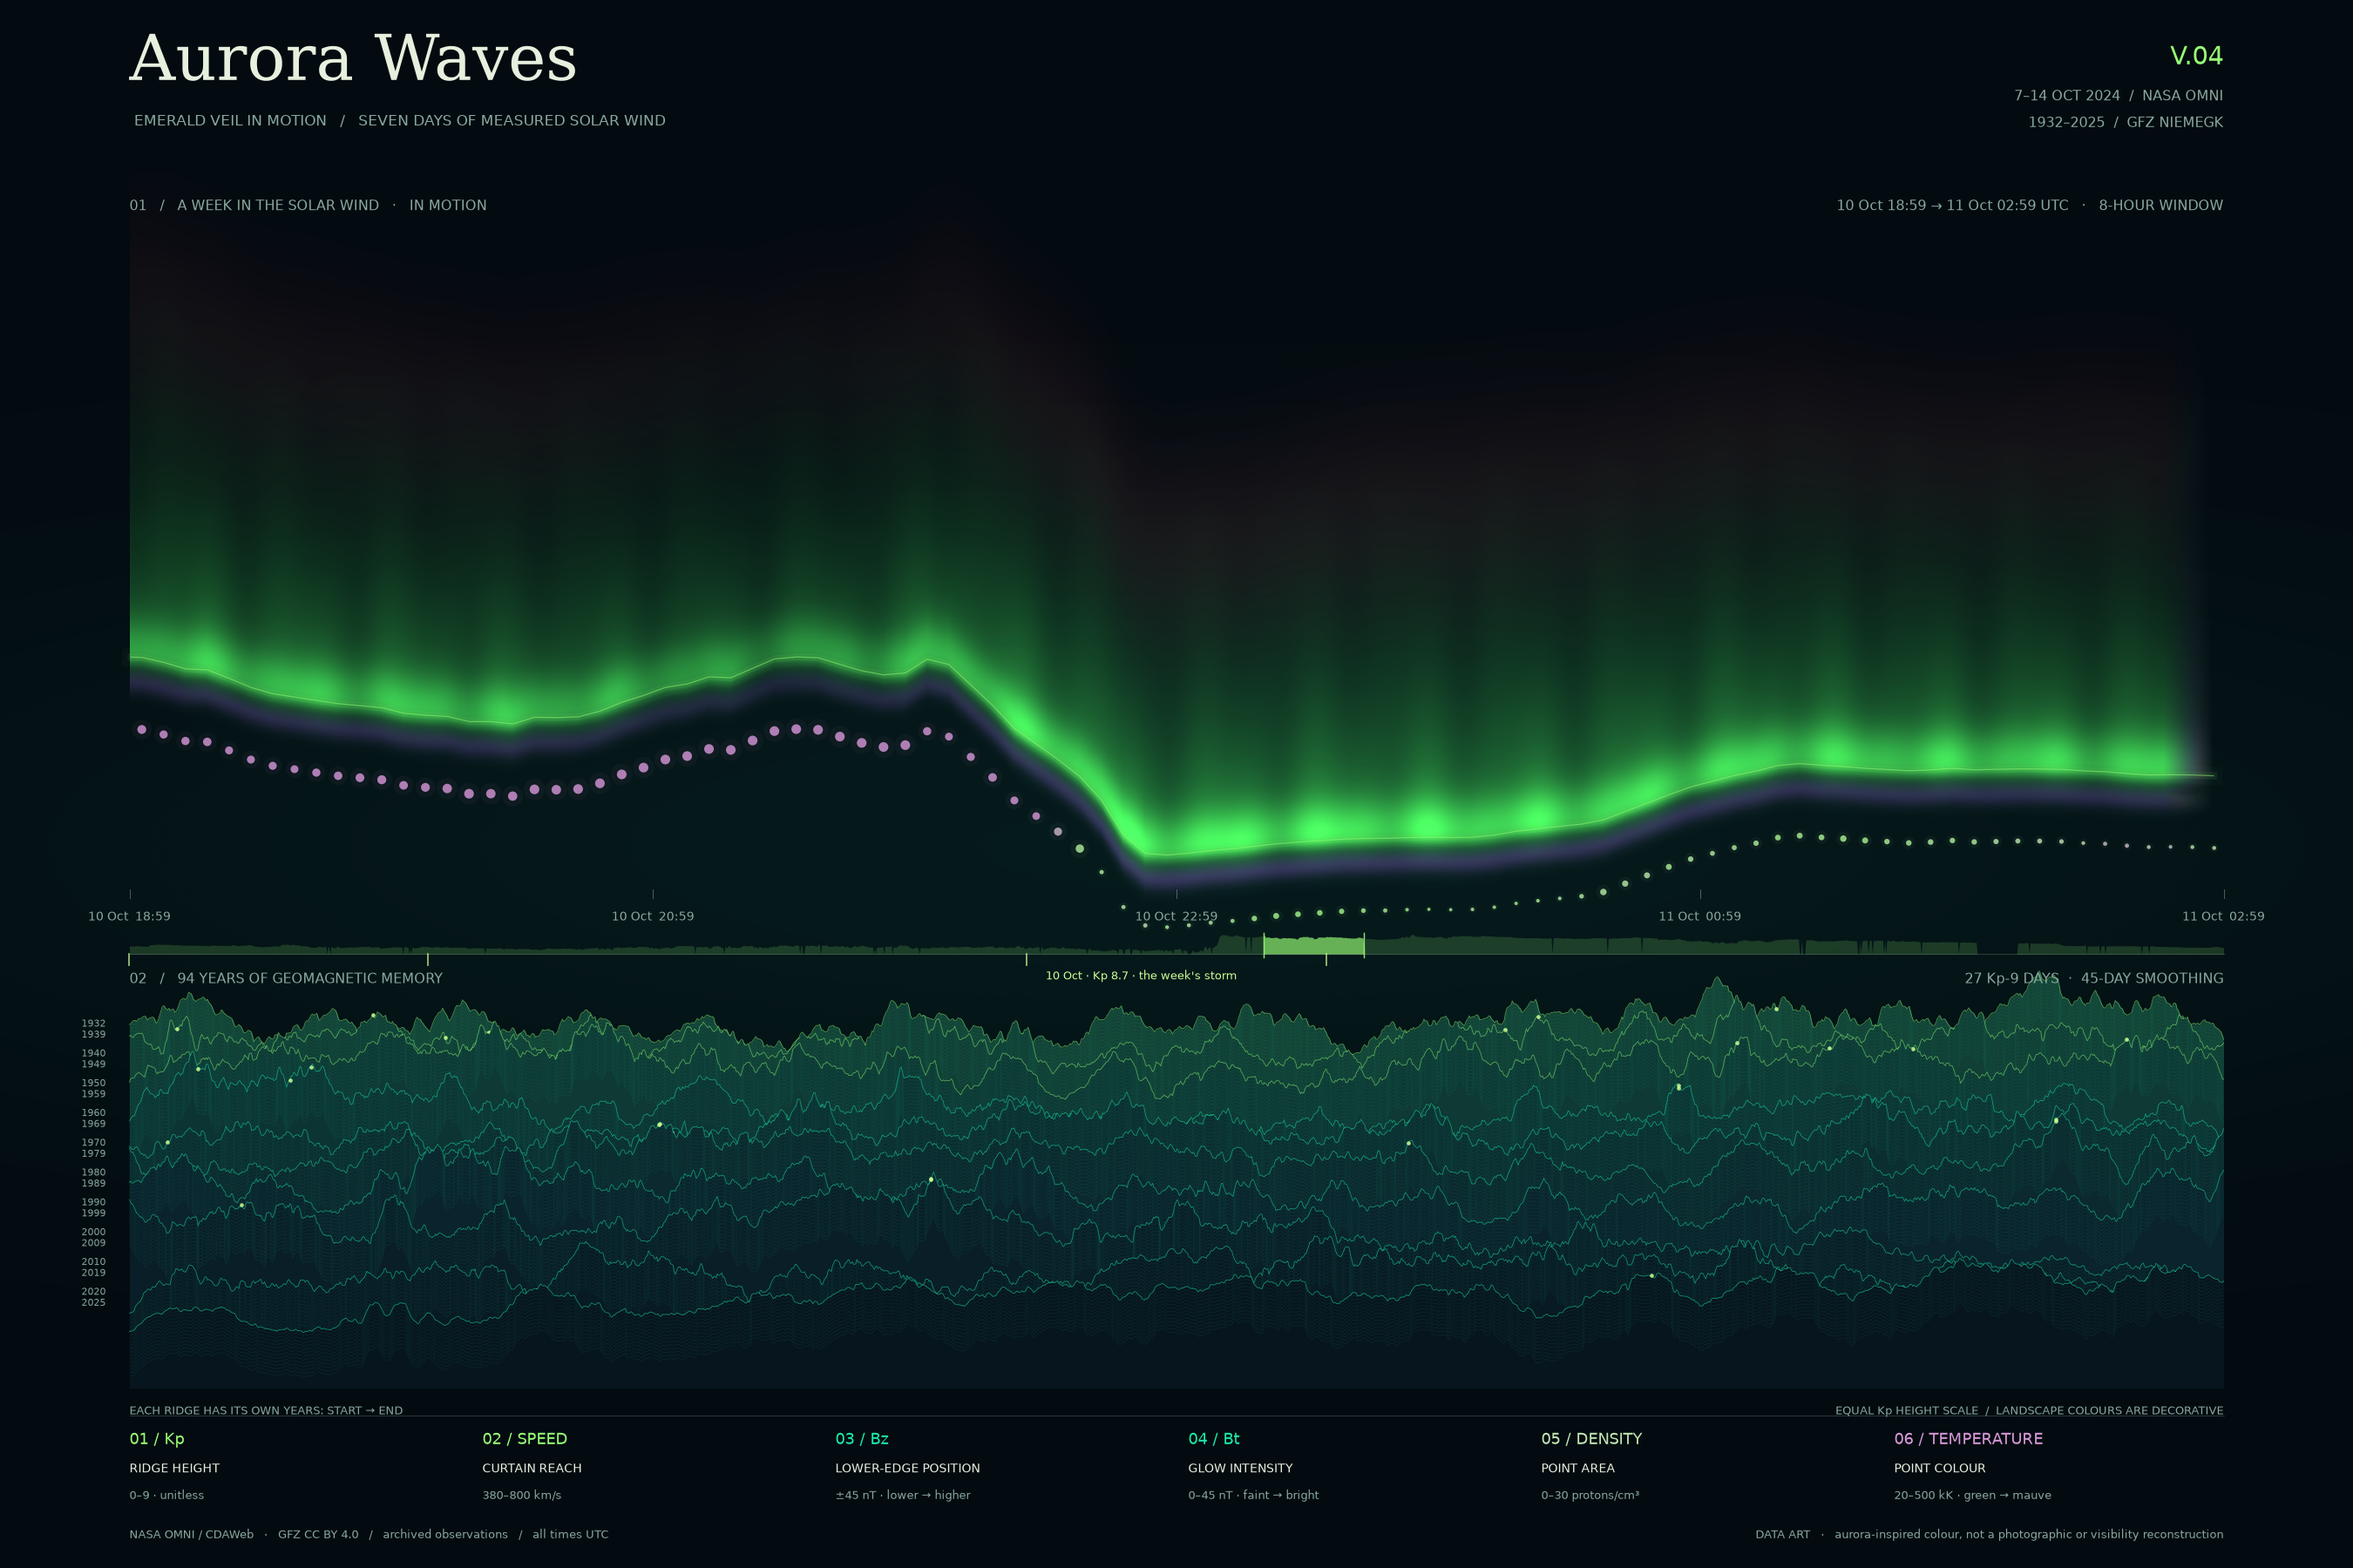
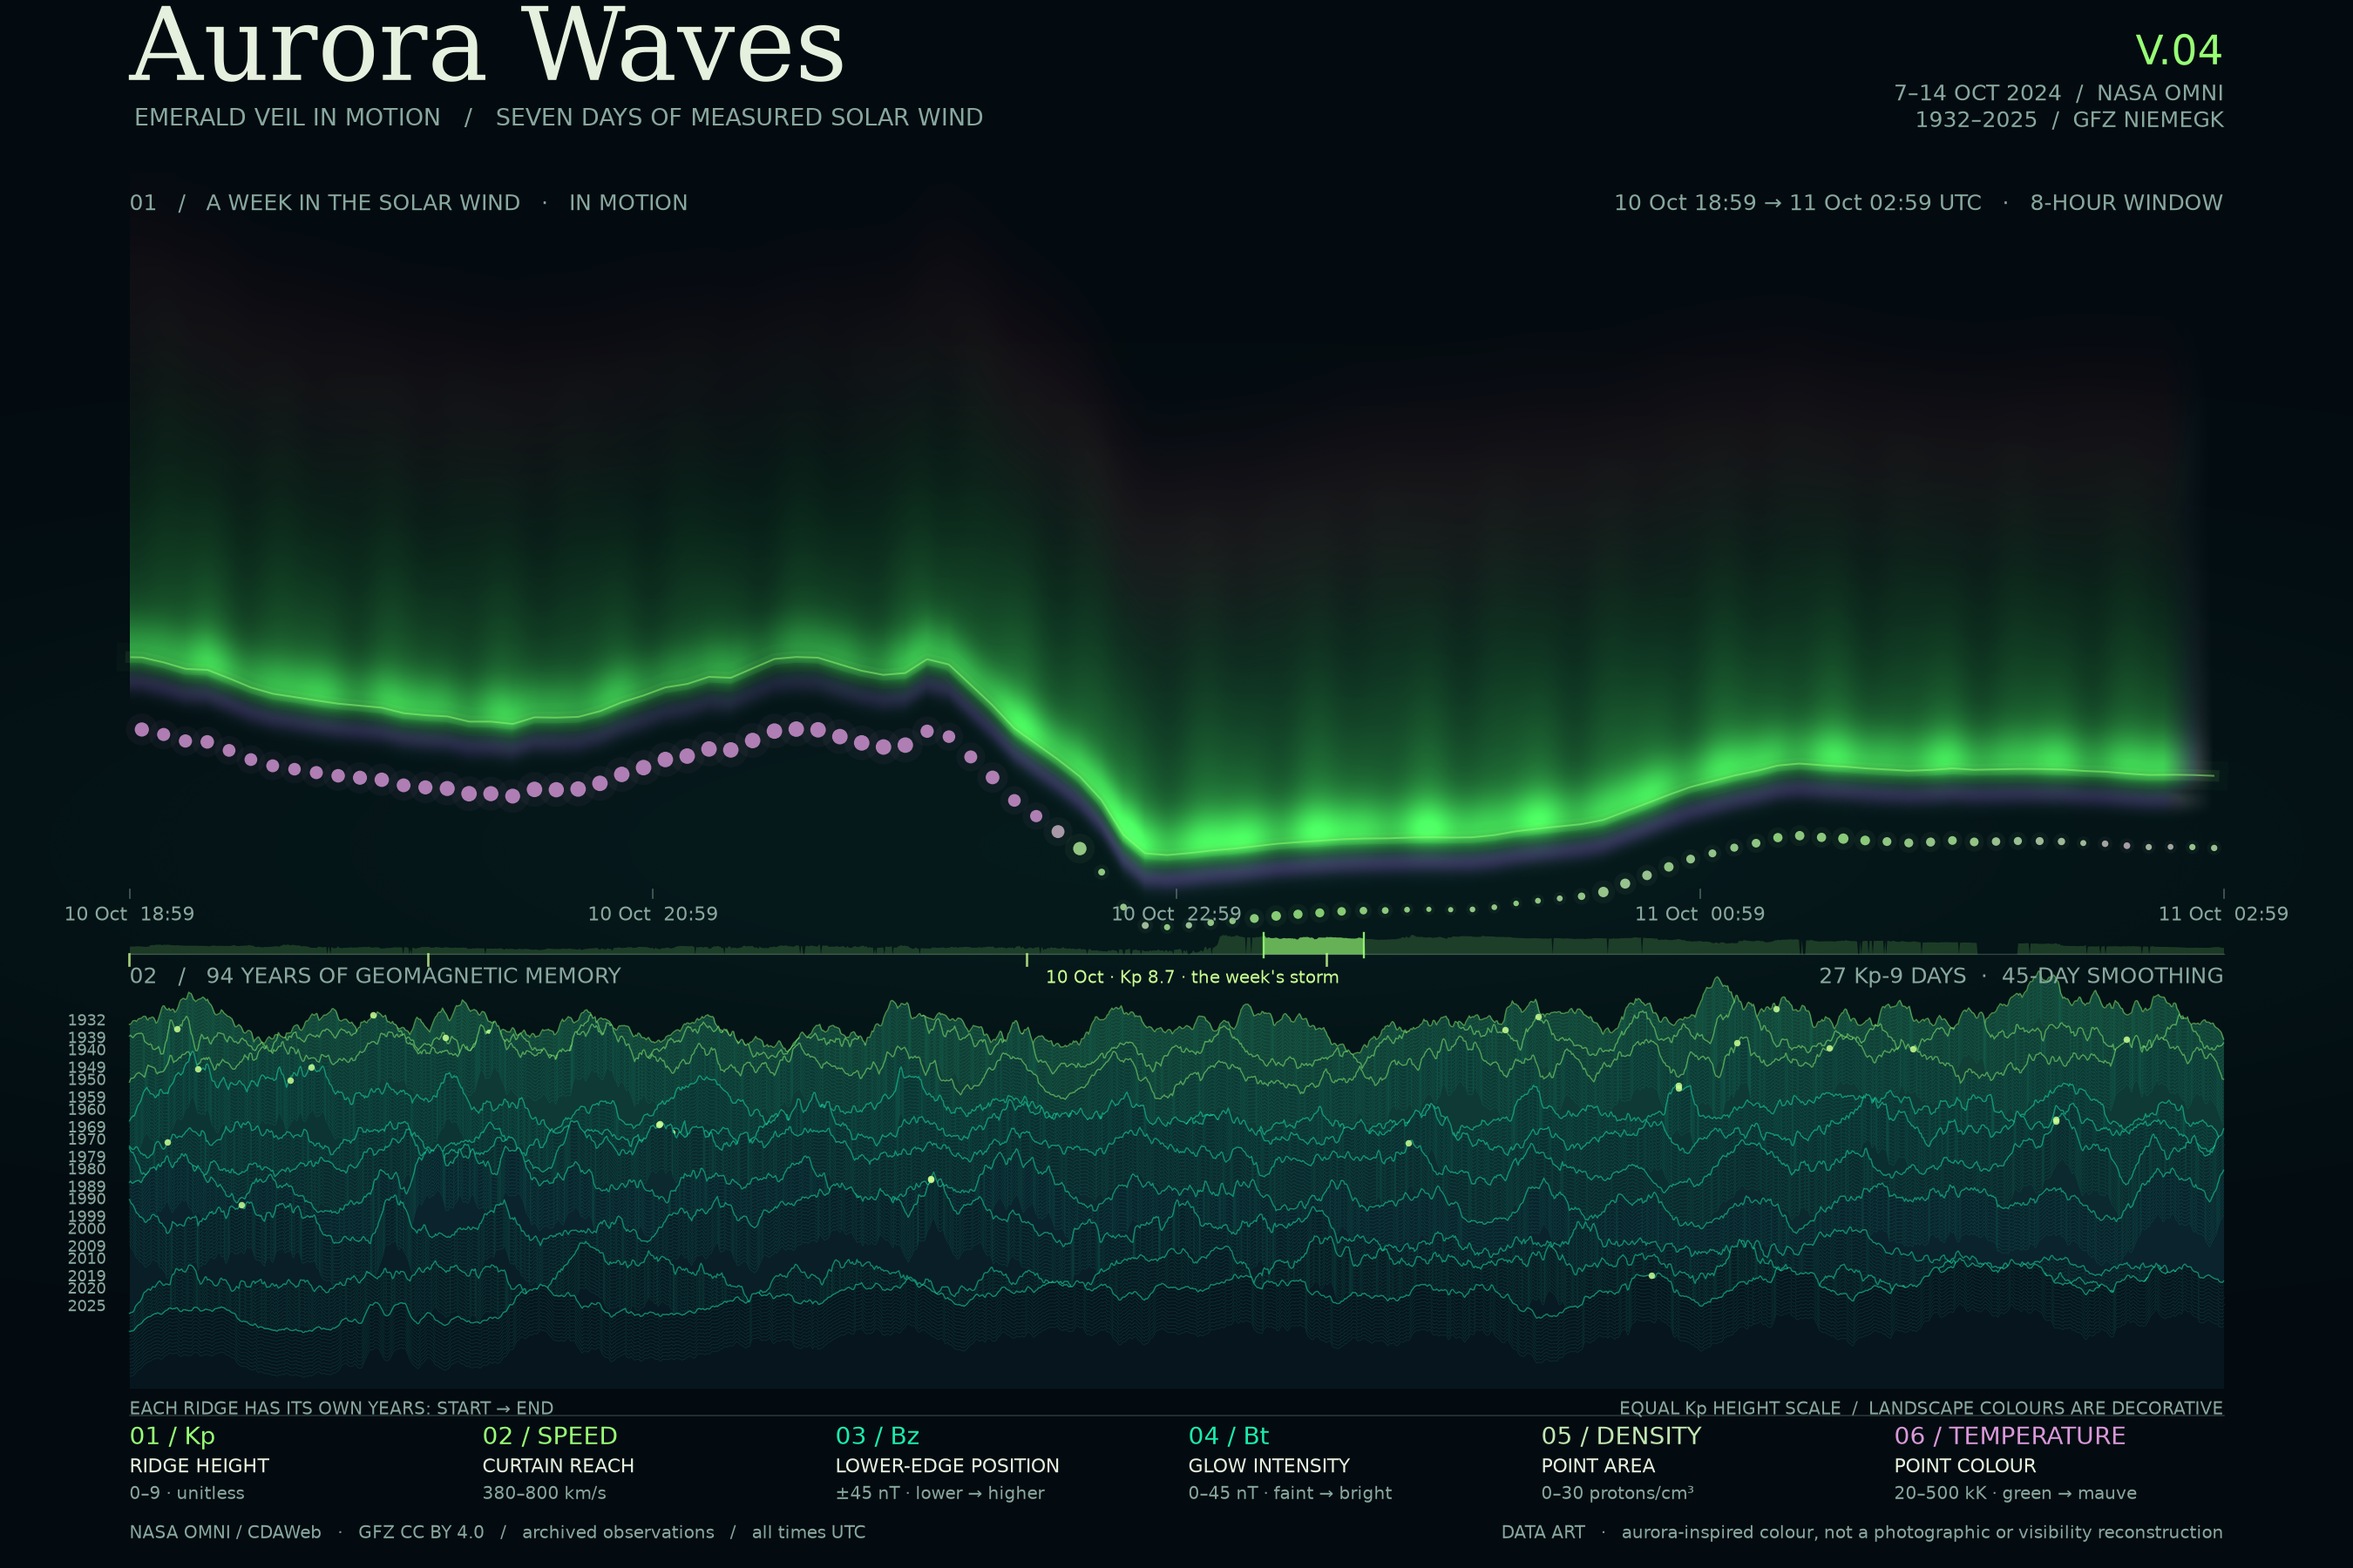
aurora-waves v04: keep the pixels and grow the type; the canvas shrinks 1.6x while every dpi rises 1.6x, so the 2700 x 1800 poster and 1080 x 720 frames keep their pixels and the lettering lands 1.6x larger at readme width; archive synced to the byte

diff --git a/Aurora-Waves-v4/aurora_waves_v04.py b/Aurora-Waves-v4/aurora_waves_v04.py
@@ -64,9 +64,18 @@ BZ_FULL = 45                               # nT, the clip on the lower-edge posi
 DENSITY_FULL = 30                          # protons/cm^3, the clip on point area
 TEMP_LO, TEMP_HI = 20000, 500000           # K
 
-FIG = (18, 12)
-FRAME_DPI = 60          # 1080 x 720, sized for a looping GIF held entirely in memory
-POSTER_DPI = 150
+# The canvas is 1.6x smaller than V03's and every dpi below is 1.6x higher, so both
+# pictures keep exactly the pixels they had — 1080 x 720 frames, a 2700 x 1800 poster.
+# What changes is the size of everything measured in POINTS rather than in fractions
+# of the canvas: type, rules and light points all land 1.6x larger relative to the
+# picture. That is the whole point. At 18 x 12 in the poster was still 2700 px wide,
+# but a README column is about 880, so a 6 pt caption survived the downscale as
+# roughly 4 px and could not be read. The composition does not move: the drawing is
+# in relative coordinates and the curtain is a raster, so this is the same picture
+# with legible lettering.
+FIG = (11.25, 7.5)
+FRAME_DPI = 96          # 1080 x 720, sized for a looping GIF held entirely in memory
+POSTER_DPI = 240        # 2700 x 1800
 PALETTE_COLOURS = 128   # one palette for the whole loop, so colours cannot flicker
 PICKS = 9               # frames sampled when building that shared palette
 LEGAL = ('NASA OMNI / CDAWeb   ·   GFZ CC BY 4.0   /   archived observations   '

diff --git a/aurora_waves_v04.py b/aurora_waves_v04.py
@@ -64,9 +64,18 @@ BZ_FULL = 45                               # nT, the clip on the lower-edge posi
 DENSITY_FULL = 30                          # protons/cm^3, the clip on point area
 TEMP_LO, TEMP_HI = 20000, 500000           # K
 
-FIG = (18, 12)
-FRAME_DPI = 60          # 1080 x 720, sized for a looping GIF held entirely in memory
-POSTER_DPI = 150
+# The canvas is 1.6x smaller than V03's and every dpi below is 1.6x higher, so both
+# pictures keep exactly the pixels they had — 1080 x 720 frames, a 2700 x 1800 poster.
+# What changes is the size of everything measured in POINTS rather than in fractions
+# of the canvas: type, rules and light points all land 1.6x larger relative to the
+# picture. That is the whole point. At 18 x 12 in the poster was still 2700 px wide,
+# but a README column is about 880, so a 6 pt caption survived the downscale as
+# roughly 4 px and could not be read. The composition does not move: the drawing is
+# in relative coordinates and the curtain is a raster, so this is the same picture
+# with legible lettering.
+FIG = (11.25, 7.5)
+FRAME_DPI = 96          # 1080 x 720, sized for a looping GIF held entirely in memory
+POSTER_DPI = 240        # 2700 x 1800
 PALETTE_COLOURS = 128   # one palette for the whole loop, so colours cannot flicker
 PICKS = 9               # frames sampled when building that shared palette
 LEGAL = ('NASA OMNI / CDAWeb   ·   GFZ CC BY 4.0   /   archived observations   '
